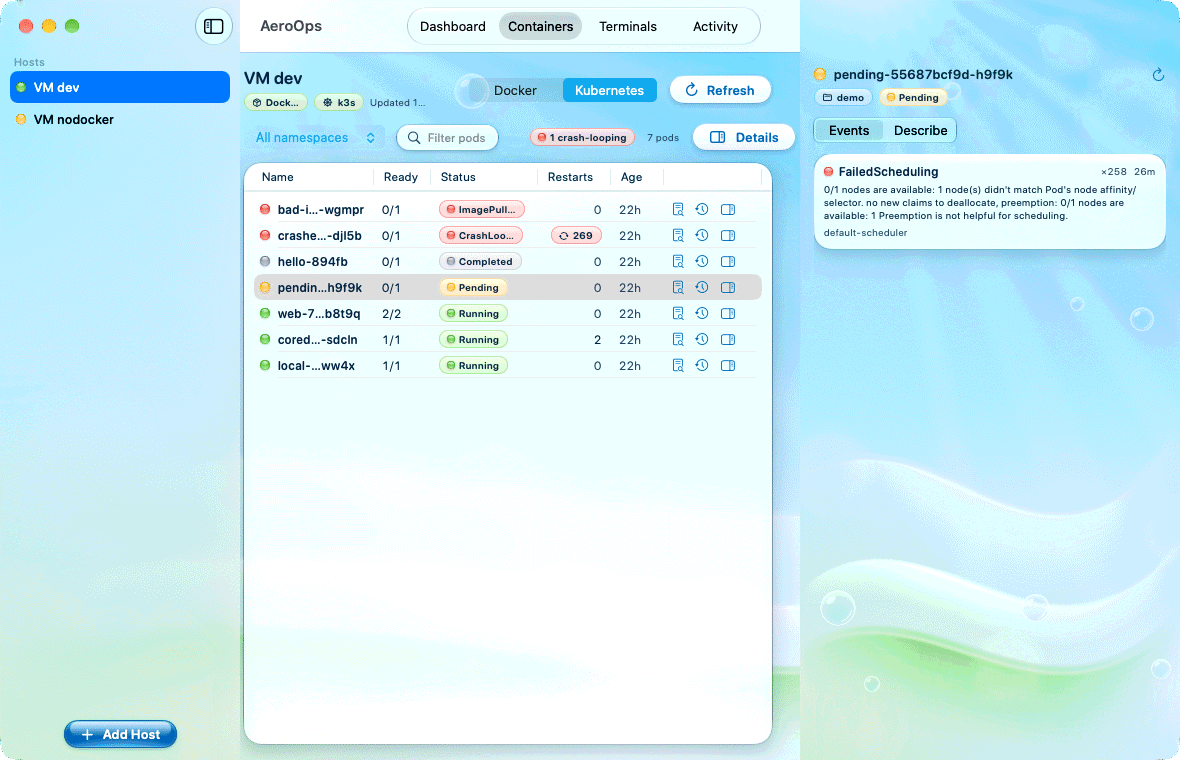
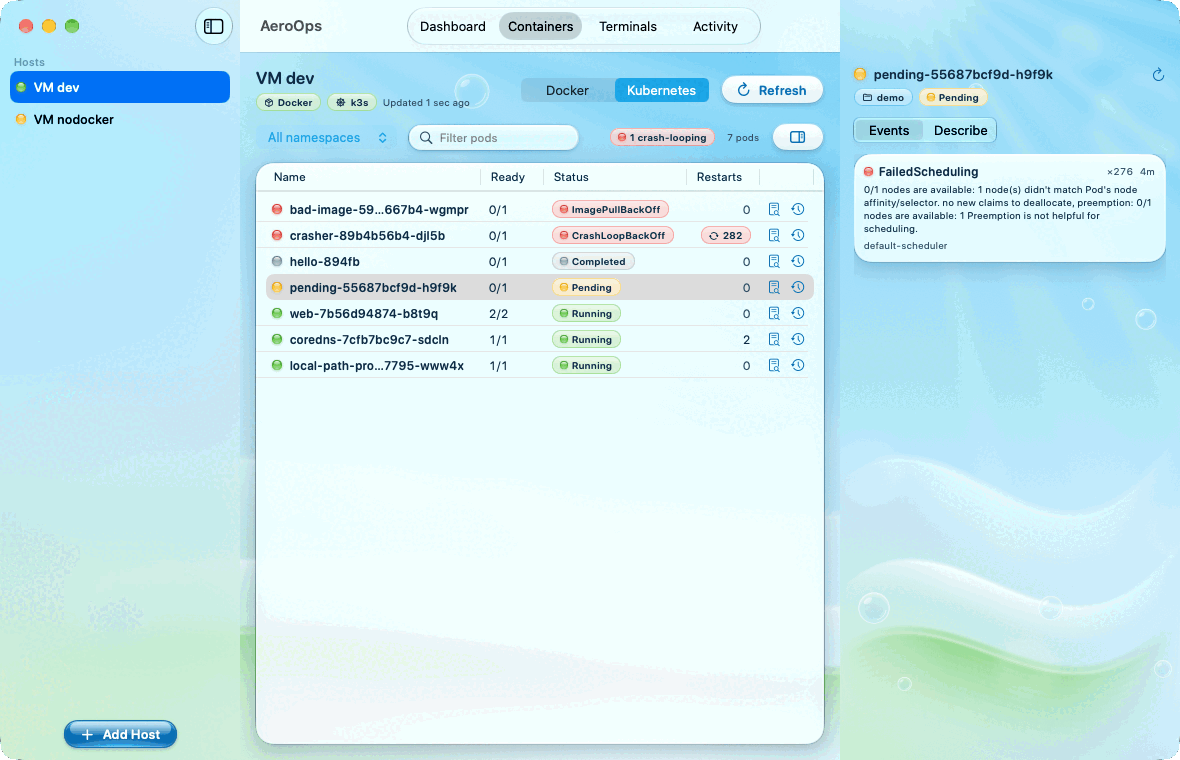
Make room for the pod inspector in narrow windows
Opening the inspector when the Containers content would get less than
600 pt beside it hides the sidebar until the inspector closes or the tab
changes; the Details button is icon-only while the inspector is open.
At the 900 pt minimum window the pods table now keeps names, status,
restarts and row buttons instead of the whole column overflowing.

Replace the Kubernetes README screenshot with a capture of the fixed table.

diff --git a/App/Containers/ContainersView.swift b/App/Containers/ContainersView.swift
@@ -33,9 +33,19 @@ struct ContainersView: View {
 /// One host's containers and pods.
 struct HostContainersView: View {
     @Environment(AppModel.self) private var model
+    @Environment(\.sidebarVisibility) private var sidebarVisibility
     let host: RemoteHost
     @Bindable var containers: HostContainersModel
     @State private var windowVisible = true
+    @State private var width: CGFloat = 0
+    /// Whether opening the inspector hid the sidebar, so closing it shows the sidebar again.
+    @State private var hidSidebar = false
+
+    /// The inspector's ideal width.
+    static let inspectorWidth: CGFloat = 340
+    /// The width the header, the pods toolbar and a pods table with names, status and row
+    /// buttons need beside the inspector.
+    static let widthBesideInspector: CGFloat = 600
 
     var body: some View {
         VStack(alignment: .leading, spacing: 12) {
@@ -46,9 +56,29 @@ struct HostContainersView: View {
         // Zero minimums decouple the split view's column minimum from this content. Without them,
         // wrapped text and toolbars feed a content-dependent minimum size back into
         // NSSplitView, which can loop until AppKit throws "more Update Constraints in Window
-        // passes than there are views in the window".
+        // passes than there are views in the window". (A constant minimum while the inspector
+        // is open throws too, which is why a narrow window hides the sidebar instead.)
         .frame(minWidth: 0, maxWidth: .infinity, minHeight: 0, maxHeight: .infinity, alignment: .top)
         .clipped()
+        .onGeometryChange(for: CGFloat.self) { $0.size.width } action: { newWidth in
+            let appeared = width == 0
+            width = newWidth
+            if appeared, containers.inspectorPresented {
+                // Back on the tab with the inspector still open.
+                hideSidebar(ifNarrowerThan: Self.widthBesideInspector)
+            } else if hidSidebar, !containers.inspectorPresented {
+                // The inspector has closed and handed its width back.
+                showSidebarAgain()
+            }
+        }
+        .onChange(of: containers.inspectorPresented) { _, presented in
+            if presented { hideSidebar(ifNarrowerThan: Self.inspectorWidth + Self.widthBesideInspector) }
+        }
+        .onChange(of: sidebarVisibility.wrappedValue) { _, visibility in
+            // Shown by hand: it stays.
+            if visibility != .detailOnly { hidSidebar = false }
+        }
+        .onDisappear(perform: showSidebarAgain)
         .background { WindowVisibilityReader(isVisible: $windowVisible) }
         .task(id: windowVisible) {
             guard windowVisible else { return }
@@ -62,8 +92,26 @@ struct HostContainersView: View {
         }
         .inspector(isPresented: $containers.inspectorPresented) {
             PodInspectorView(containers: containers)
-                .inspectorColumnWidth(min: 300, ideal: 340, max: 560)
+                .inspectorColumnWidth(min: 300, ideal: Self.inspectorWidth, max: 560)
         }
+    }
+
+    /// Opening the inspector in a window too narrow for it and the content hides the sidebar,
+    /// until the inspector closes or the tab changes.
+    private func hideSidebar(ifNarrowerThan needed: CGFloat) {
+        guard width > 0, width < needed, sidebarVisibility.wrappedValue != .detailOnly else { return }
+        hidSidebar = true
+        sidebarVisibility.wrappedValue = .detailOnly
+    }
+
+    /// Shows the sidebar again once the inspector has closed. Through the sidebar toggle
+    /// action, like the toolbar button: setting the split view's visibility to `.all` grows the
+    /// window by the sidebar's width instead.
+    private func showSidebarAgain() {
+        guard hidSidebar else { return }
+        hidSidebar = false
+        guard sidebarVisibility.wrappedValue == .detailOnly else { return }
+        NSApp.sendAction(#selector(NSSplitViewController.toggleSidebar(_:)), to: nil, from: nil)
     }
 
     @ViewBuilder private var content: some View {

diff --git a/App/Containers/PodsSection.swift b/App/Containers/PodsSection.swift
@@ -49,14 +49,25 @@ struct PodsSection: View {
                 .foregroundStyle(Aero.text.secondary)
                 .monospacedDigit()
                 .fixedSize()
+            // With the inspector open the button only closes it, so it gives its title's width
+            // to the column.
             Button {
                 containers.inspectorPresented.toggle()
             } label: {
-                Label("Details", systemImage: "sidebar.trailing")
+                if containers.inspectorPresented {
+                    Label("Hide details", systemImage: "sidebar.trailing")
+                        .labelStyle(.iconOnly)
+                } else {
+                    Label("Details", systemImage: "sidebar.trailing")
+                }
             }
             .buttonStyle(.aquaSecondary)
             .fixedSize()
-            .help("Show the selected pod's events and describe output")
+            .help(
+                containers.inspectorPresented
+                    ? "Hide the pod's events and describe output"
+                    : "Show the selected pod's events and describe output"
+            )
         }
     }
 

diff --git a/App/Shell/RootView.swift b/App/Shell/RootView.swift
@@ -18,6 +18,7 @@ struct RootView: View {
                 .frame(maxWidth: .infinity, maxHeight: .infinity)
                 .safeAreaInset(edge: .top, spacing: 0) { HostLoadErrorBanner() }
                 .background { SkyBackground() }
+                .environment(\.sidebarVisibility, $columnVisibility)
         }
         .navigationTitle("AeroOps")
         .toolbar {
@@ -36,6 +37,12 @@ struct RootView: View {
             OnboardingView()
         }
     }
+}
+
+extension EnvironmentValues {
+    /// The main window's sidebar visibility, for content that needs to make room (the
+    /// Containers inspector in a narrow window).
+    @Entry var sidebarVisibility: Binding<NavigationSplitViewVisibility> = .constant(.all)
 }
 
 /// The segmented tab control in the toolbar. ⌘1–⌘4 live in the View menu (``AppCommands``).
